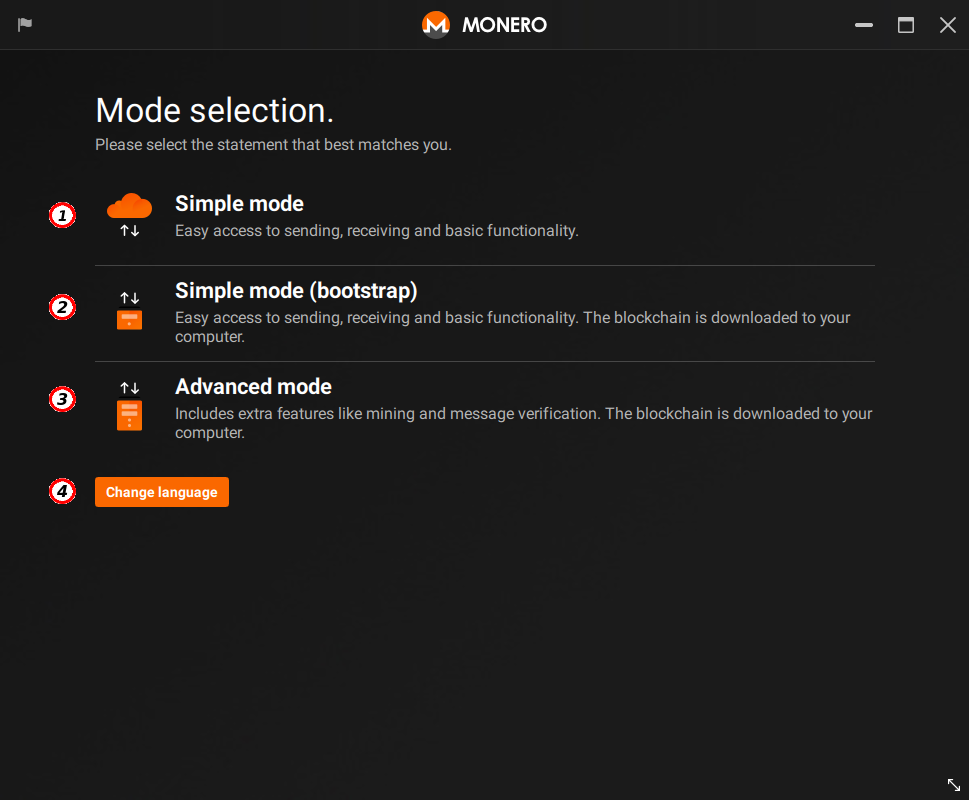
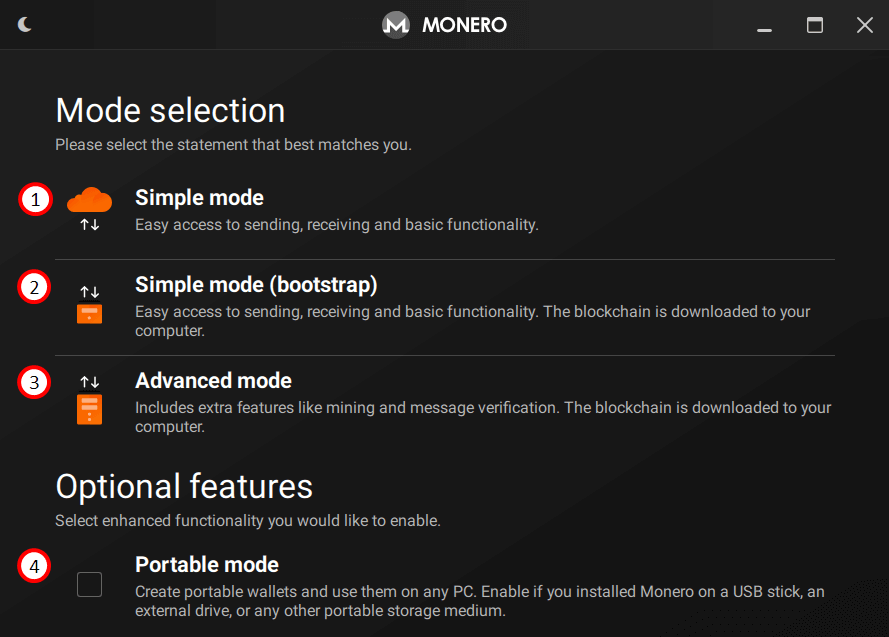
ch01: add portable mode (#205)
* ch01: add portable mode

* Update ch01.md

* Update ch01.md

* Update ch01.md

diff --git a/en/ch01.md b/en/ch01.md
@@ -1,7 +1,8 @@
-# Welcome
+# Running Monero GUI for the first time
 
 Extract the package and click on `monero-wallet-gui`. The following window should open:
 
+## Welcome
 ![Welcome](media/wizard_0-welcome.png)
 
 Welcome to Monero GUI Wallet.
@@ -21,12 +22,15 @@ Click on the language symbol or English (US) to display a list of available lang
 ![mode](media/wizard_1_1-mode.png)
 
 This page lets you choose the mode that best suits your accessibility and privacy needs.  
-*Note:* Stagenet and Testnnet only supports *Advanced mode*.
+*Note:* connecting to Stagenet or Testnet requires *Advanced mode*.
 
 (1) **Simple mode:** In this mode your wallet will display a simple interface with easy access to basic functionality like sending, receiving, transactions history, address book, accounts, and merchant mode, as well as hardware wallet support. It will **permanently connect to a third-party server** (a **remote node**), and it will not start a local node in your computer (the blockchain will not be downloaded). Choose this option if you don't have enough space to store the blockchain file, if you don't require maximum privacy and if you accept the privacy risks of using a remote node to connect to the Monero network.  
 (2) **Simple mode (bootstrap):** In this mode your wallet will also display a simple interface with easy access to basic functionality. Additionaly it will start a **local node** that synchronizes a **pruned blockchain** in the background. This means your local node will start downloading only a part of the blockchain file, and your blockchain will be [pruned](https://www.getmonero.org/resources/moneropedia/pruning.html) (1/3 of a full blockchain). This download can take several hours or even days to complete. While the pruned blockchain is being downloaded, your local node **will temporarily connect to a third-party server** (a **remote node** known as bootstrap node), which will allow you to start using Monero immediately. After downloading and synchronizing the pruned blockchain and the wallet, your local node will only temporarily connect to the bootstrap node when your blockchain is not updated. Be aware that using a remote node (including a bootstrap node) to connect to the Monero network may reduce your privacy.  
 (3) **Advanced mode:** In this mode your wallet will display all advanced features available, like synchronizing a **local node** with the **full (non-pruned) blockchain** from scratch, changing fees/transaction priority, solo mining, message verification, transaction proof/check, offline transaction signing, key images importing, custom remote node (including .onion remote nodes), custom bootstrap node, starting a local node without setting a bootstrap node (maximum privacy), changing blockchain location, and daemon log. In this mode you can choose if you want to connect to the Monero network via a remote node or a local node. If you decide to run a local node, the full blockchain file (at least 110 GB) will be downloaded. If you want to start using Monero immediately, you can also set a bootstrap node (remote node) in the Settings > Node page. To achieve maximum privacy in your connection to the Monero network, it's recommended to avoid using a remote/bootstrap node and instead use advanced mode to start a local node without setting a bootstrap node.  
-(4) **Change language:** This will let you choose the language from the startup page (again).
+
+**Optional features:**  
+
+(4) **Portable mode:** choose this mode if your Monero GUI executable is on a USB stick, an external disk drive or any other portable storage medium. When enabled, this mode will store your settings and create new wallets in the same folder of your Monero GUI executable, which means Monero GUI will not leave any traces (files) on the computer(s) you use to open your wallet files, and you will not have to reconfigure Monero GUI every time you open your wallet file in a different computer. But beware: selecting this mode will not move existing wallets into your Monero GUI executable folder, and it will not erase traces that may already have been left on your operating system  from previous installs (for instance, if you have previously used Windows installer to install Monero GUI in Program Files folder).  
 
 ## About the Simple/Bootstrap mode
 ![acknowledgement](media/wizard_1_2-warning.png)
